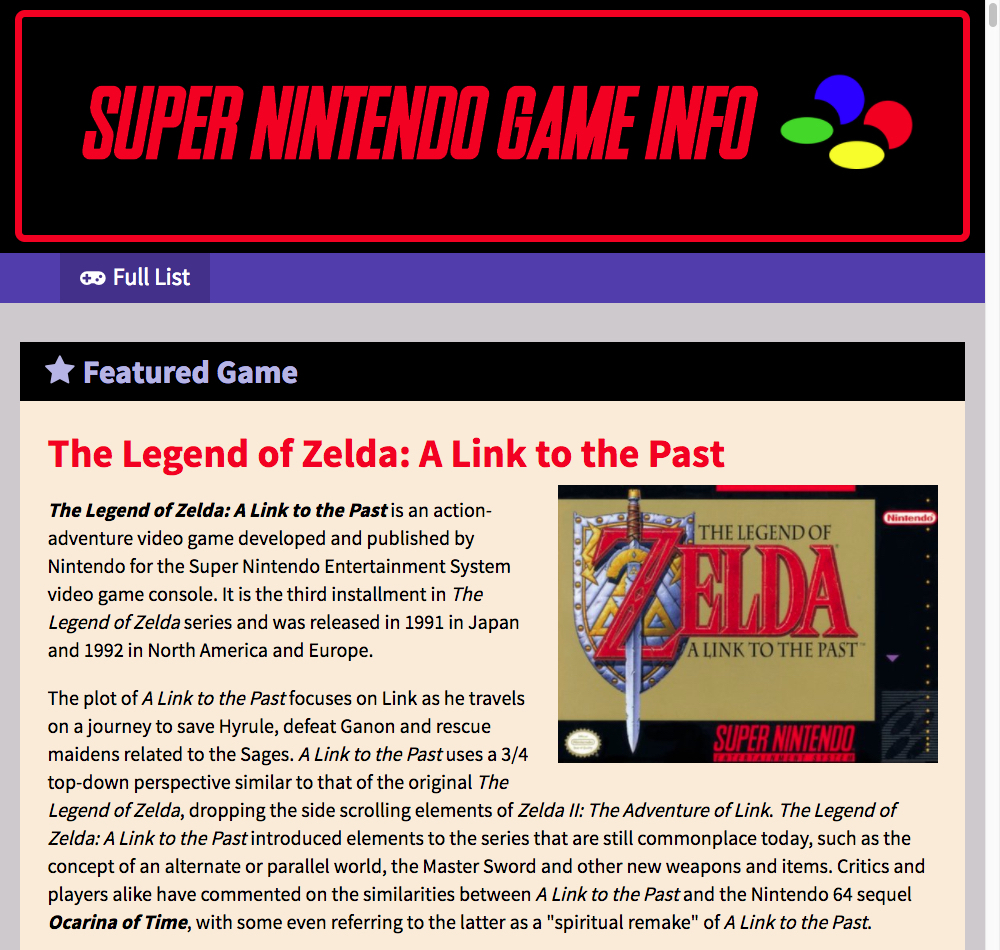
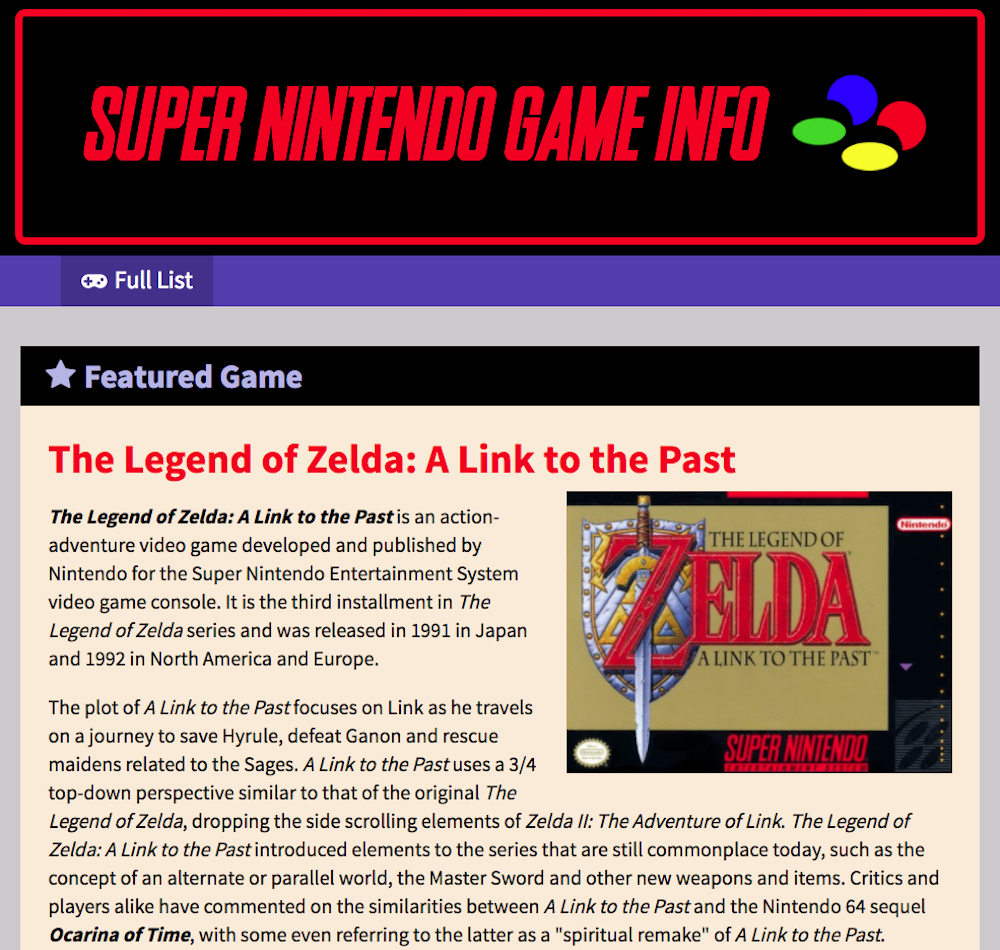
Made NavBar work for small screens + clean up

diff --git a/src/components/NavBar/NavBar.js b/src/components/NavBar/NavBar.js
@@ -2,31 +2,74 @@ import React from 'react';
 import { NavLink } from 'react-router-dom';
 import './NavBar.css';
 
-const NavBar = () => (
-  <nav className='nav-bar'>
-    <ul>
-      <li>
-        <NavLink exact to='/' activeClassName='selected'>
-          Home
-        </NavLink>
-      </li>
-      <li>
-        <NavLink to='/projects' activeClassName='selected'>
-          Projects
-        </NavLink>
-      </li>
-      <li>
-        <NavLink to='/about' activeClassName='selected'>
-          About
-        </NavLink>
-      </li>
-      <li>
-        <NavLink to='/contact' activeClassName='selected'>
-          Contact
-        </NavLink>
-      </li>
-    </ul>
-  </nav>
-);
+const NavBar = () => {
+  const burgerToggle = () => {
+    const narrowLinks = document.querySelector('.nav-narrow-links');
+
+    if (narrowLinks.style.display === 'block') {
+      narrowLinks.style.display = 'none';
+    } else {
+      narrowLinks.style.display = 'block';
+    }
+  };
+
+  return (
+    <nav className='nav-bar'>
+      <div className='nav-wide'>
+        <ul>
+          <li onClick={burgerToggle}>
+            <NavLink exact to='/' activeClassName='selected'>
+              Home
+            </NavLink>
+          </li>
+          <li onClick={burgerToggle}>
+            <NavLink to='/projects' activeClassName='selected'>
+              Projects
+            </NavLink>
+          </li>
+          <li onClick={burgerToggle}>
+            <NavLink to='/about' activeClassName='selected'>
+              About
+            </NavLink>
+          </li>
+          <li onClick={burgerToggle}>
+            <NavLink to='/contact' activeClassName='selected'>
+              Contact
+            </NavLink>
+          </li>
+        </ul>
+      </div>
+      <div className='nav-narrow'>
+        <i
+          className='fa fa-bars'
+          onClick={burgerToggle}
+        >
+        </i>
+        <ul className='nav-narrow-links'>
+          <li onClick={burgerToggle}>
+            <NavLink exact to='/' activeClassName='selected'>
+              Home
+            </NavLink>
+          </li>
+          <li onClick={burgerToggle}>
+            <NavLink to='/projects' activeClassName='selected'>
+              Projects
+            </NavLink>
+          </li>
+          <li onClick={burgerToggle}>
+            <NavLink to='/about' activeClassName='selected'>
+              About
+            </NavLink>
+          </li>
+          <li onClick={burgerToggle}>
+            <NavLink to='/contact' activeClassName='selected'>
+              Contact
+            </NavLink>
+          </li>
+        </ul>
+      </div>
+    </nav>
+  );
+};
 
 export default NavBar;

diff --git a/src/components/NavBar/NavBar.scss b/src/components/NavBar/NavBar.scss
@@ -1,4 +1,5 @@
 @import 'media/styles/colors';
+@import 'media/styles/_sizes';
 
 $font-stack: Lato, sans-serif;
 
@@ -24,5 +25,58 @@ $font-stack: Lato, sans-serif;
 
   .selected {
     color: $white;
+  }
+
+  .nav-narrow {
+    display: none;
+
+    .nav-narrow-links {
+      display: none;
+
+      li > a {
+        display: block;
+      }
+    }
+  }
+}
+
+@include tablet-down {
+  .nav-bar {
+    .nav-wide {
+      display: none;
+    }
+
+    .nav-narrow {
+      display: flex;
+      flex-direction: column;
+
+      i {
+        font-size: 2rem;
+      }
+
+      .nav-narrow-links {
+        position: absolute;
+        top: 11.5vh;
+        left: 0;
+        margin: 0;
+        padding: 0;
+        box-shadow: -10px 3px 10px $charcoal;
+        background-color: $primary-light;
+
+        li {
+          display: block;
+          width: 100vw;
+          padding: 1vh 0;
+          border-top: 1px solid $primary-lighter;
+          &:last-child {
+            border-bottom: 1px solid $primary-lighter;
+          }
+
+          a {
+            text-align: center;
+          }
+        }
+      }
+    }
   }
 }

diff --git a/src/components/Header/Header.scss b/src/components/Header/Header.scss
@@ -1,4 +1,5 @@
 @import 'media/styles/_colors';
+@import 'media/styles/_sizes';
 
 $font-stack: Raleway, sans-serif;
 
@@ -26,6 +27,20 @@ $font-stack: Raleway, sans-serif;
     .sub-heading {
       margin: 0;
       color: $sub-heading;
+    }
+  }
+}
+
+@include tablet-down {
+  .header {
+    .heading {
+      h1 {
+        font-size: 2.5rem;
+      }
+    }
+
+    .sub-heading {
+      font-size: 1rem;
     }
   }
 }

diff --git a/src/components/Projects/Projects.js b/src/components/Projects/Projects.js
@@ -6,7 +6,8 @@ import './Projects.css';
 const Projects = () => (
   <div className='projects'>
     <ContentCentered>
-      <h1>Check out some of my projects.</h1>
+      <h1>My projects.</h1>
+      <p>Ordered newest to oldest. Check out the GitHub repos to see the code.</p>
       <div className='projects-images'>
         <ImageWithCaption
           image={require('../../media/images/super-nintendo-game-info.jpg')}

diff --git a/src/components/ImageWithCaption/ImageWithCaption.scss b/src/components/ImageWithCaption/ImageWithCaption.scss
@@ -3,9 +3,9 @@
 .image-with-caption {
   width: 23vw;
   height: auto;
-  border: 1px solid $figure;
+  background-color: $secondary;
+  border: 1px solid $secondary;
   border-radius: 5px;
-  background-color: $figure;
 
   figure {
     margin: 10px 0;

diff --git a/src/media/styles/_colors.scss b/src/media/styles/_colors.scss
@@ -1,6 +1,8 @@
 // Background
 $primary: #2e7d32;
-$figure: #00838f;
+$primary-light: #388e3C;
+$primary-lighter: #43a047;
+$secondary: #00838f;
 
 // Text
 $black: #000;

diff --git a/src/media/styles/_sizes.scss b/src/media/styles/_sizes.scss
@@ -1,0 +1,7 @@
+@mixin tablet-down {
+  @media (max-width: 900px) { @content; }
+}
+
+@mixin phone-only {
+  @media (max-width: 599px) { @content; }
+}

diff --git a/src/components/Projects/Projects.scss b/src/components/Projects/Projects.scss
@@ -2,6 +2,6 @@
   .projects-images {
     display: flex;
     justify-content: space-between;
-    margin-top: 10vh;
+    margin-top: 8vh;
   }
 }
